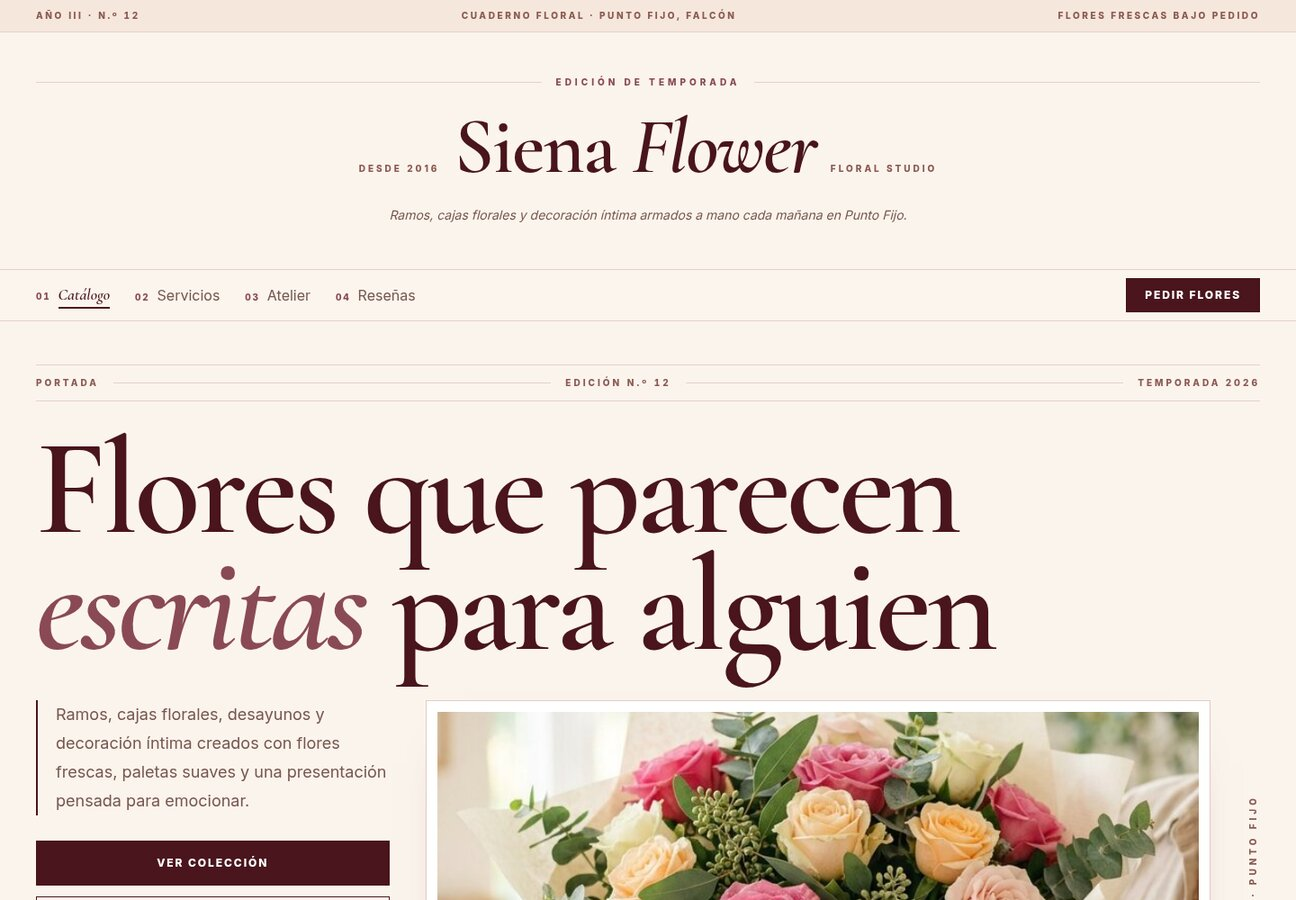
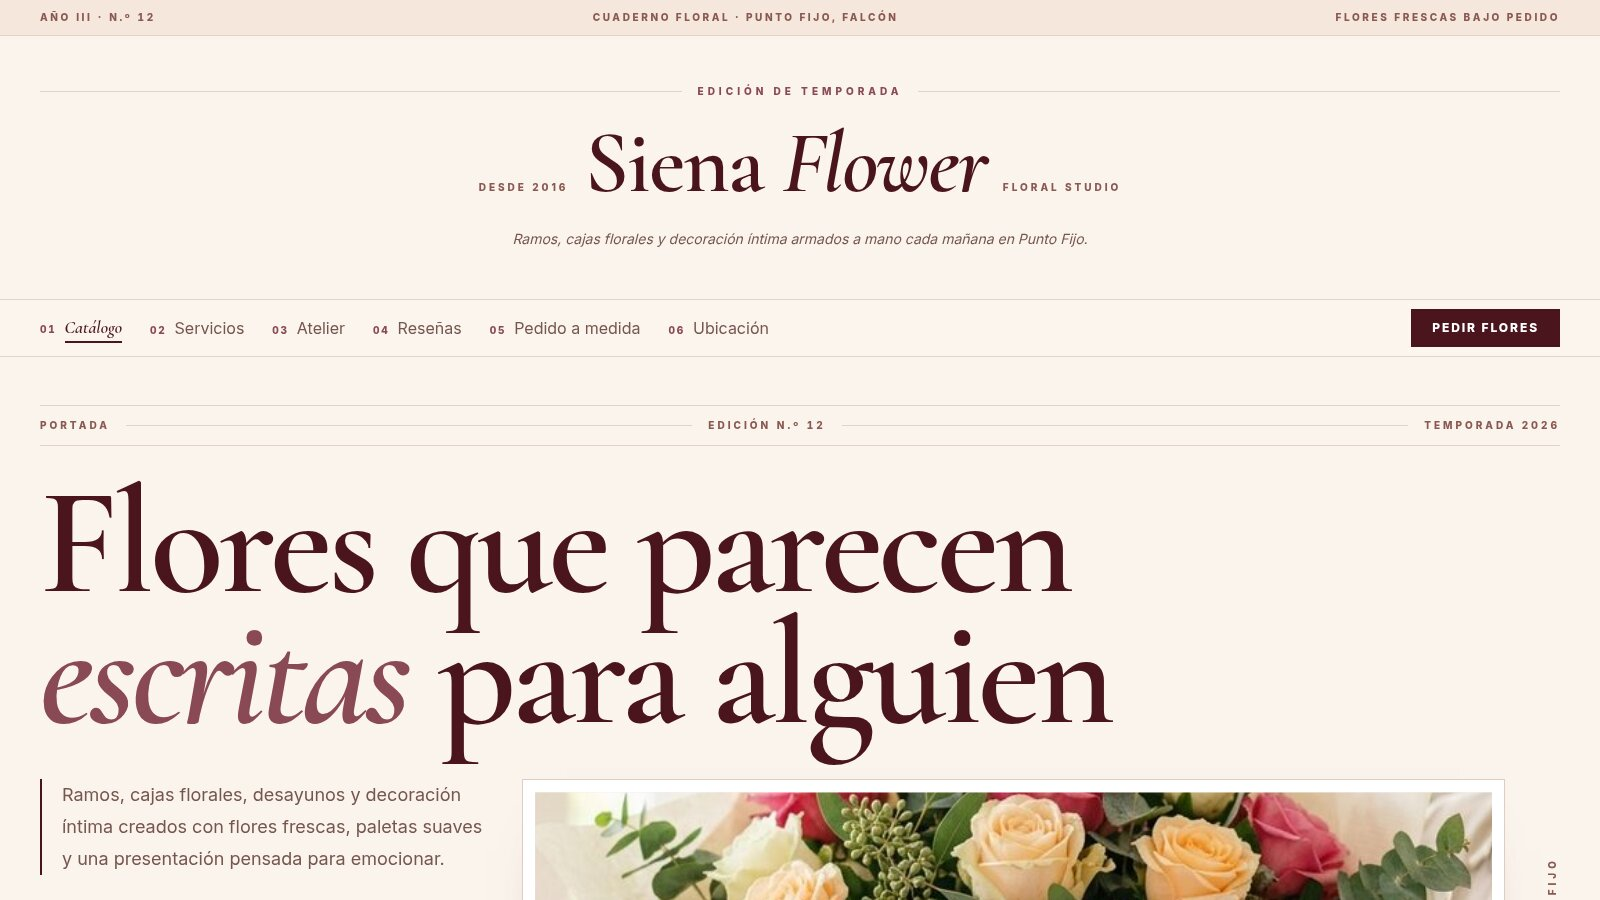
docs: portada nueva tras motion y mapa

diff --git a/README.md b/README.md
@@ -2,7 +2,7 @@
 
 [Español](README.md) · [English](README.en.md)
 
-<a href="https://agencia-web-floristeria-demo.vercel.app"><img src="docs/portada.jpg" alt="Siena Flower en la computadora y en el teléfono: portada con ramos, precios y pedido por WhatsApp" width="100%"></a>
+<a href="https://agencia-web-floristeria-demo.vercel.app"><img src="docs/portada.jpg" alt="Siena Flower: portada editorial con titular de temporada, navegación y foto del ramo" width="100%"></a>
 
 Sitio web de demostración, de una sola página: floristería boutique con colección por ocasión, servicios, atelier y pedidos por WhatsApp.
 
